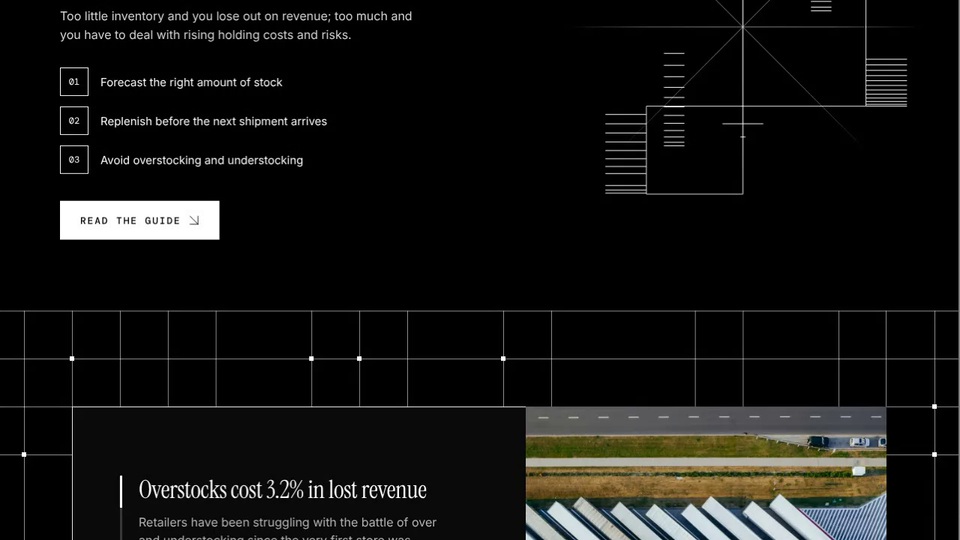
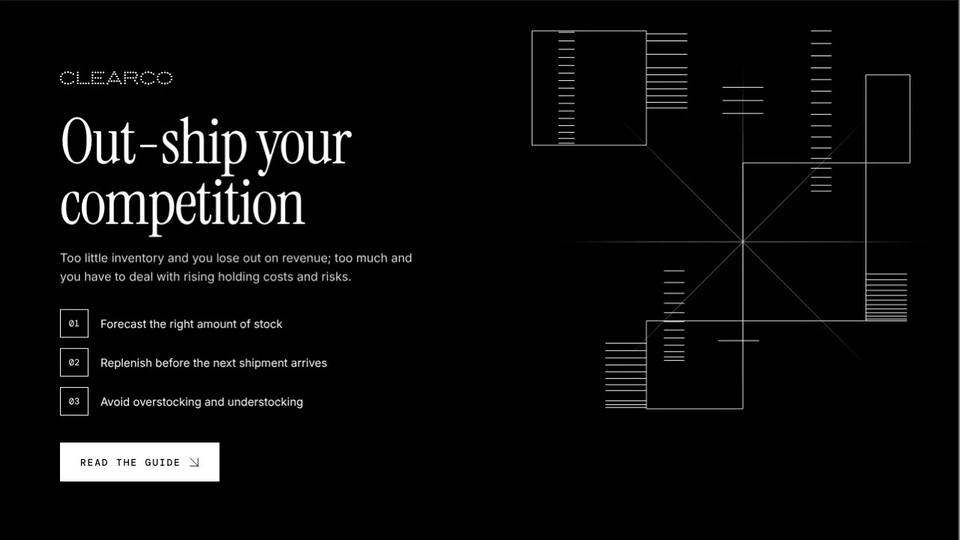
Clearco Logistics Guide: skinny stack moved to the marked spot, hero visual raised further; re-record clip
Claude-Session: https://claude.ai/code/session_01AHeBdwjGFXBCupAH8deQwB

diff --git a/clearco-logistics-guide/index.html b/clearco-logistics-guide/index.html
@@ -56,12 +56,12 @@ section{padding-block:clamp(18px,2.5vw,32px)}
 .points{list-style:none;padding:0;display:grid;grid-template-columns:1fr;gap:14px;margin:0 0 36px}
 .points li{display:flex;gap:16px;align-items:center;font-size:15px;line-height:1.4}
 .points i{flex:none;width:38px;height:38px;border:1px solid #fff;display:grid;place-items:center;font:400 12px/1 var(--mono);font-style:normal}
-.vis{position:relative;top:-40px;width:calc(100% + 72px);margin:0 -72px 0 0}
+.vis{position:relative;top:-76px;width:calc(100% + 72px);margin:0 -72px 0 0}
 .vis svg{width:100%;height:auto;display:block;overflow:visible}
 .vis .blk *{vector-effect:non-scaling-stroke}
 /* the stacks of fine lines are drawn by script, with the same motion as the banner stacks */
 .vis .st line{vector-effect:non-scaling-stroke}
-@media (max-width:820px){.hero .wrap{grid-template-columns:1fr}.vis{width:min(460px,100%);margin:0 auto}}
+@media (max-width:820px){.hero .wrap{grid-template-columns:1fr}.vis{width:min(460px,100%);margin:0 auto;top:0}}
 
 /* ---------- animated grid backgrounds ---------- */
 .gridsec{position:relative;background:#000;overflow:hidden}
@@ -234,7 +234,7 @@ footer .sign{margin-top:28px;color:#fff;font-size:14px}
     </ul>
     <a class="btn light" href="https://www.clear.co/blog/navigating-inventory-logistics-a-resource-for-founders">Read the guide <svg class="arr" viewBox="0 0 24 24" width="14" height="14" fill="none" stroke="currentColor" stroke-width="1.5" stroke-linecap="square" aria-hidden="true"><path d="M3 3 21 21M21 3v18M3 21h18"/></svg></a>
     </div>
-    <div class="vis"><svg viewBox="-40 -40 596 596" width="596" height="596" role="img" aria-label="Abstract linework: four outlined boxes meeting corner to corner and thin lines radiating from a centre point on black, with stacks of parallel white lines that float up and down"><defs><linearGradient id="r0" gradientUnits="userSpaceOnUse" x1="288" y1="288" x2="538.0" y2="288.0"><stop offset="0" stop-color="#fff" stop-opacity=".55"/><stop offset=".5" stop-color="#fff" stop-opacity=".45"/><stop offset="1" stop-color="#fff" stop-opacity="0"/></linearGradient><linearGradient id="r1" gradientUnits="userSpaceOnUse" x1="288" y1="288" x2="464.8" y2="464.8"><stop offset="0" stop-color="#fff" stop-opacity=".55"/><stop offset=".5" stop-color="#fff" stop-opacity=".45"/><stop offset="1" stop-color="#fff" stop-opacity="0"/></linearGradient><linearGradient id="r2" gradientUnits="userSpaceOnUse" x1="288" y1="288" x2="288.0" y2="538.0"><stop offset="0" stop-color="#fff" stop-opacity=".55"/><stop offset=".5" stop-color="#fff" stop-opacity=".45"/><stop offset="1" stop-color="#fff" stop-opacity="0"/></linearGradient><linearGradient id="r3" gradientUnits="userSpaceOnUse" x1="288" y1="288" x2="111.2" y2="464.8"><stop offset="0" stop-color="#fff" stop-opacity=".55"/><stop offset=".5" stop-color="#fff" stop-opacity=".45"/><stop offset="1" stop-color="#fff" stop-opacity="0"/></linearGradient><linearGradient id="r4" gradientUnits="userSpaceOnUse" x1="288" y1="288" x2="38.0" y2="288.0"><stop offset="0" stop-color="#fff" stop-opacity=".55"/><stop offset=".5" stop-color="#fff" stop-opacity=".45"/><stop offset="1" stop-color="#fff" stop-opacity="0"/></linearGradient><linearGradient id="r5" gradientUnits="userSpaceOnUse" x1="288" y1="288" x2="111.2" y2="111.2"><stop offset="0" stop-color="#fff" stop-opacity=".55"/><stop offset=".5" stop-color="#fff" stop-opacity=".45"/><stop offset="1" stop-color="#fff" stop-opacity="0"/></linearGradient><linearGradient id="r6" gradientUnits="userSpaceOnUse" x1="288" y1="288" x2="288.0" y2="38.0"><stop offset="0" stop-color="#fff" stop-opacity=".55"/><stop offset=".5" stop-color="#fff" stop-opacity=".45"/><stop offset="1" stop-color="#fff" stop-opacity="0"/></linearGradient><linearGradient id="r7" gradientUnits="userSpaceOnUse" x1="288" y1="288" x2="464.8" y2="111.2"><stop offset="0" stop-color="#fff" stop-opacity=".55"/><stop offset=".5" stop-color="#fff" stop-opacity=".45"/><stop offset="1" stop-color="#fff" stop-opacity="0"/></linearGradient></defs><g fill="none" stroke="#fff" stroke-width="1" vector-effect="non-scaling-stroke"><g class="ray"><line x1="288" y1="288" x2="538.0" y2="288.0" stroke="url(#r0)"/><line x1="288" y1="288" x2="464.8" y2="464.8" stroke="url(#r1)"/><line x1="288" y1="288" x2="288.0" y2="538.0" stroke="url(#r2)"/><line x1="288" y1="288" x2="111.2" y2="464.8" stroke="url(#r3)"/><line x1="288" y1="288" x2="38.0" y2="288.0" stroke="url(#r4)"/><line x1="288" y1="288" x2="111.2" y2="111.2" stroke="url(#r5)"/><line x1="288" y1="288" x2="288.0" y2="38.0" stroke="url(#r6)"/><line x1="288" y1="288" x2="464.8" y2="111.2" stroke="url(#r7)"/></g><g class="blk" opacity=".9"><rect x="0" y="0" width="156" height="156"/><rect x="288" y="180" width="168" height="216"/><rect x="456" y="60" width="60" height="120"/><rect x="156" y="396" width="132" height="120"/></g></g><g stroke="#fff" stroke-width="1"><g class="st" data-x="156" data-y="116" data-h="80" data-w="56" data-start="0.2"></g><g class="st" data-x="100" data-y="484" data-h="64" data-w="56" data-start="1.4"></g><g class="st" data-x="456" data-y="364" data-h="64" data-w="56" data-start="2.6"></g><g class="st" data-x="381" data-y="133" data-h="194" data-w="28" data-n="16" data-start="0.9"></g><g class="st" data-x="180" data-y="390" data-h="120" data-w="28" data-n="12" data-start="2.1"></g><g class="st" data-x="-8" data-y="78" data-h="120" data-w="22" data-n="14" data-range="1" data-start="1.7"></g></g></svg></div>
+    <div class="vis"><svg viewBox="-40 -40 596 596" width="596" height="596" role="img" aria-label="Abstract linework: four outlined boxes meeting corner to corner and thin lines radiating from a centre point on black, with stacks of parallel white lines that float up and down"><defs><linearGradient id="r0" gradientUnits="userSpaceOnUse" x1="288" y1="288" x2="538.0" y2="288.0"><stop offset="0" stop-color="#fff" stop-opacity=".55"/><stop offset=".5" stop-color="#fff" stop-opacity=".45"/><stop offset="1" stop-color="#fff" stop-opacity="0"/></linearGradient><linearGradient id="r1" gradientUnits="userSpaceOnUse" x1="288" y1="288" x2="464.8" y2="464.8"><stop offset="0" stop-color="#fff" stop-opacity=".55"/><stop offset=".5" stop-color="#fff" stop-opacity=".45"/><stop offset="1" stop-color="#fff" stop-opacity="0"/></linearGradient><linearGradient id="r2" gradientUnits="userSpaceOnUse" x1="288" y1="288" x2="288.0" y2="538.0"><stop offset="0" stop-color="#fff" stop-opacity=".55"/><stop offset=".5" stop-color="#fff" stop-opacity=".45"/><stop offset="1" stop-color="#fff" stop-opacity="0"/></linearGradient><linearGradient id="r3" gradientUnits="userSpaceOnUse" x1="288" y1="288" x2="111.2" y2="464.8"><stop offset="0" stop-color="#fff" stop-opacity=".55"/><stop offset=".5" stop-color="#fff" stop-opacity=".45"/><stop offset="1" stop-color="#fff" stop-opacity="0"/></linearGradient><linearGradient id="r4" gradientUnits="userSpaceOnUse" x1="288" y1="288" x2="38.0" y2="288.0"><stop offset="0" stop-color="#fff" stop-opacity=".55"/><stop offset=".5" stop-color="#fff" stop-opacity=".45"/><stop offset="1" stop-color="#fff" stop-opacity="0"/></linearGradient><linearGradient id="r5" gradientUnits="userSpaceOnUse" x1="288" y1="288" x2="111.2" y2="111.2"><stop offset="0" stop-color="#fff" stop-opacity=".55"/><stop offset=".5" stop-color="#fff" stop-opacity=".45"/><stop offset="1" stop-color="#fff" stop-opacity="0"/></linearGradient><linearGradient id="r6" gradientUnits="userSpaceOnUse" x1="288" y1="288" x2="288.0" y2="38.0"><stop offset="0" stop-color="#fff" stop-opacity=".55"/><stop offset=".5" stop-color="#fff" stop-opacity=".45"/><stop offset="1" stop-color="#fff" stop-opacity="0"/></linearGradient><linearGradient id="r7" gradientUnits="userSpaceOnUse" x1="288" y1="288" x2="464.8" y2="111.2"><stop offset="0" stop-color="#fff" stop-opacity=".55"/><stop offset=".5" stop-color="#fff" stop-opacity=".45"/><stop offset="1" stop-color="#fff" stop-opacity="0"/></linearGradient></defs><g fill="none" stroke="#fff" stroke-width="1" vector-effect="non-scaling-stroke"><g class="ray"><line x1="288" y1="288" x2="538.0" y2="288.0" stroke="url(#r0)"/><line x1="288" y1="288" x2="464.8" y2="464.8" stroke="url(#r1)"/><line x1="288" y1="288" x2="288.0" y2="538.0" stroke="url(#r2)"/><line x1="288" y1="288" x2="111.2" y2="464.8" stroke="url(#r3)"/><line x1="288" y1="288" x2="38.0" y2="288.0" stroke="url(#r4)"/><line x1="288" y1="288" x2="111.2" y2="111.2" stroke="url(#r5)"/><line x1="288" y1="288" x2="288.0" y2="38.0" stroke="url(#r6)"/><line x1="288" y1="288" x2="464.8" y2="111.2" stroke="url(#r7)"/></g><g class="blk" opacity=".9"><rect x="0" y="0" width="156" height="156"/><rect x="288" y="180" width="168" height="216"/><rect x="456" y="60" width="60" height="120"/><rect x="156" y="396" width="132" height="120"/></g></g><g stroke="#fff" stroke-width="1"><g class="st" data-x="156" data-y="116" data-h="80" data-w="56" data-start="0.2"></g><g class="st" data-x="100" data-y="484" data-h="64" data-w="56" data-start="1.4"></g><g class="st" data-x="456" data-y="364" data-h="64" data-w="56" data-start="2.6"></g><g class="st" data-x="381" data-y="133" data-h="194" data-w="28" data-n="16" data-start="0.9"></g><g class="st" data-x="180" data-y="390" data-h="120" data-w="28" data-n="12" data-start="2.1"></g><g class="st" data-x="36" data-y="68" data-h="132" data-w="22" data-n="16" data-range="1" data-start="1.7"></g></g></svg></div>
   </div>
 </header>
 
